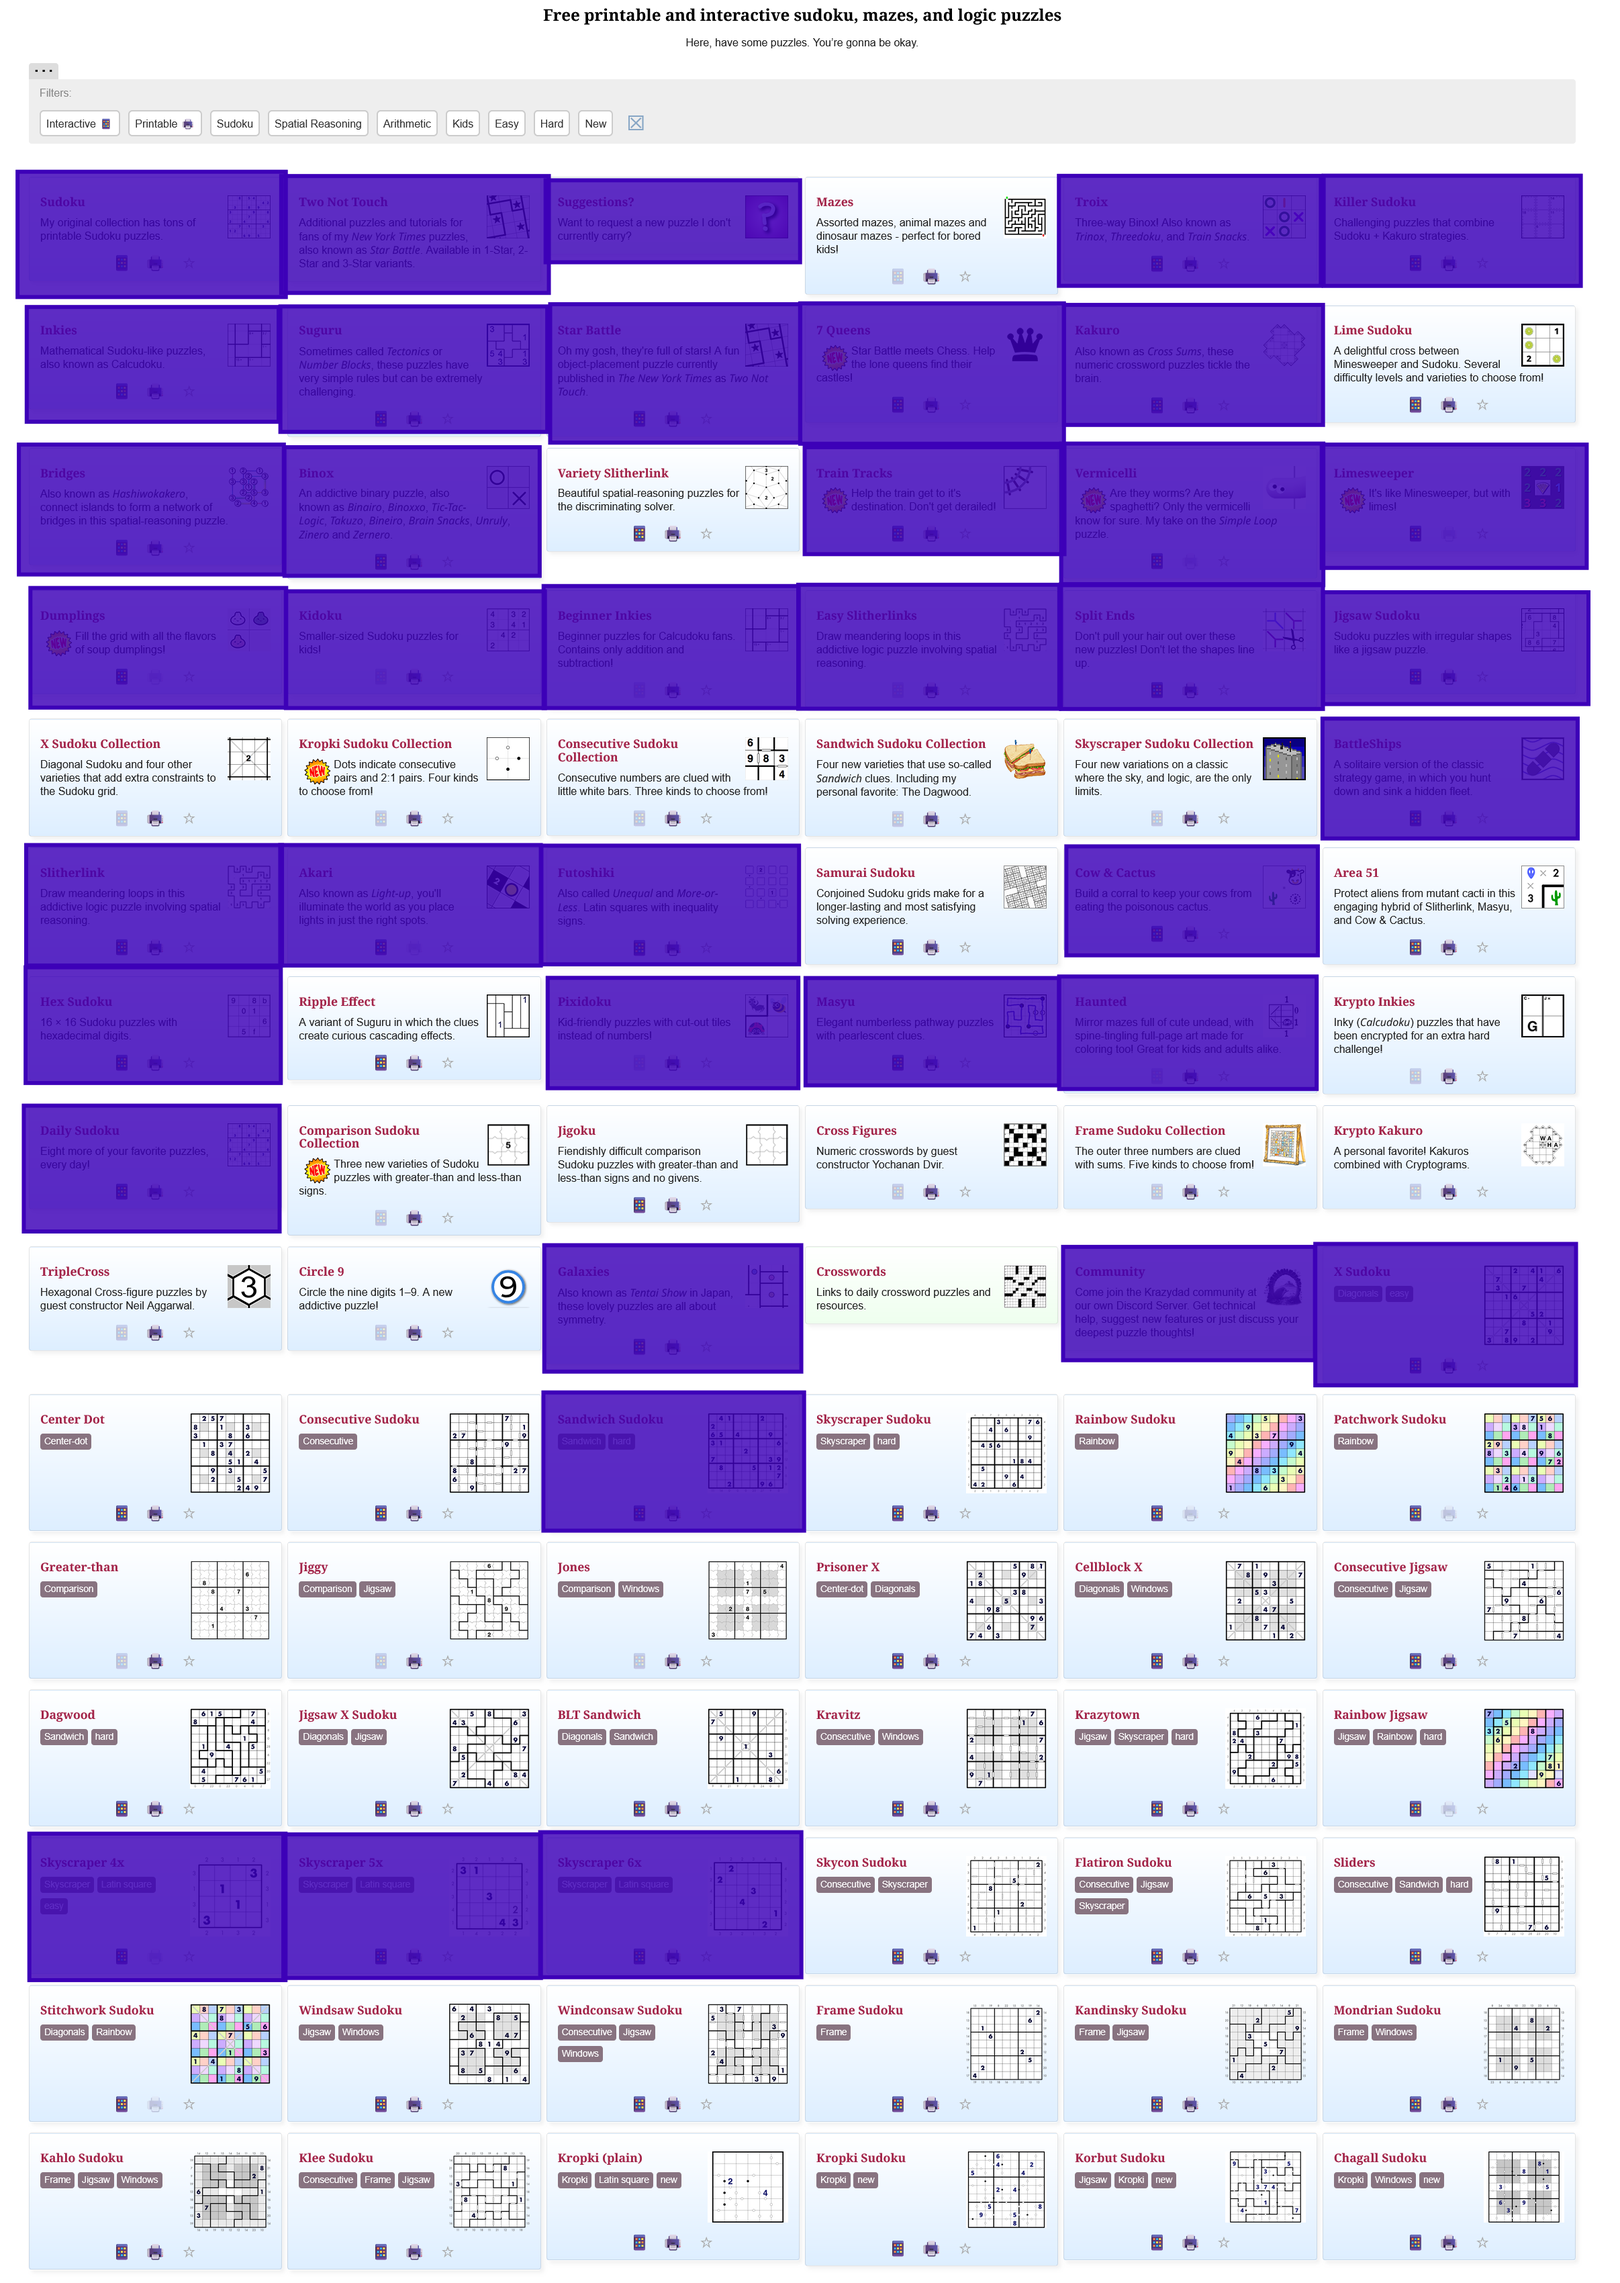
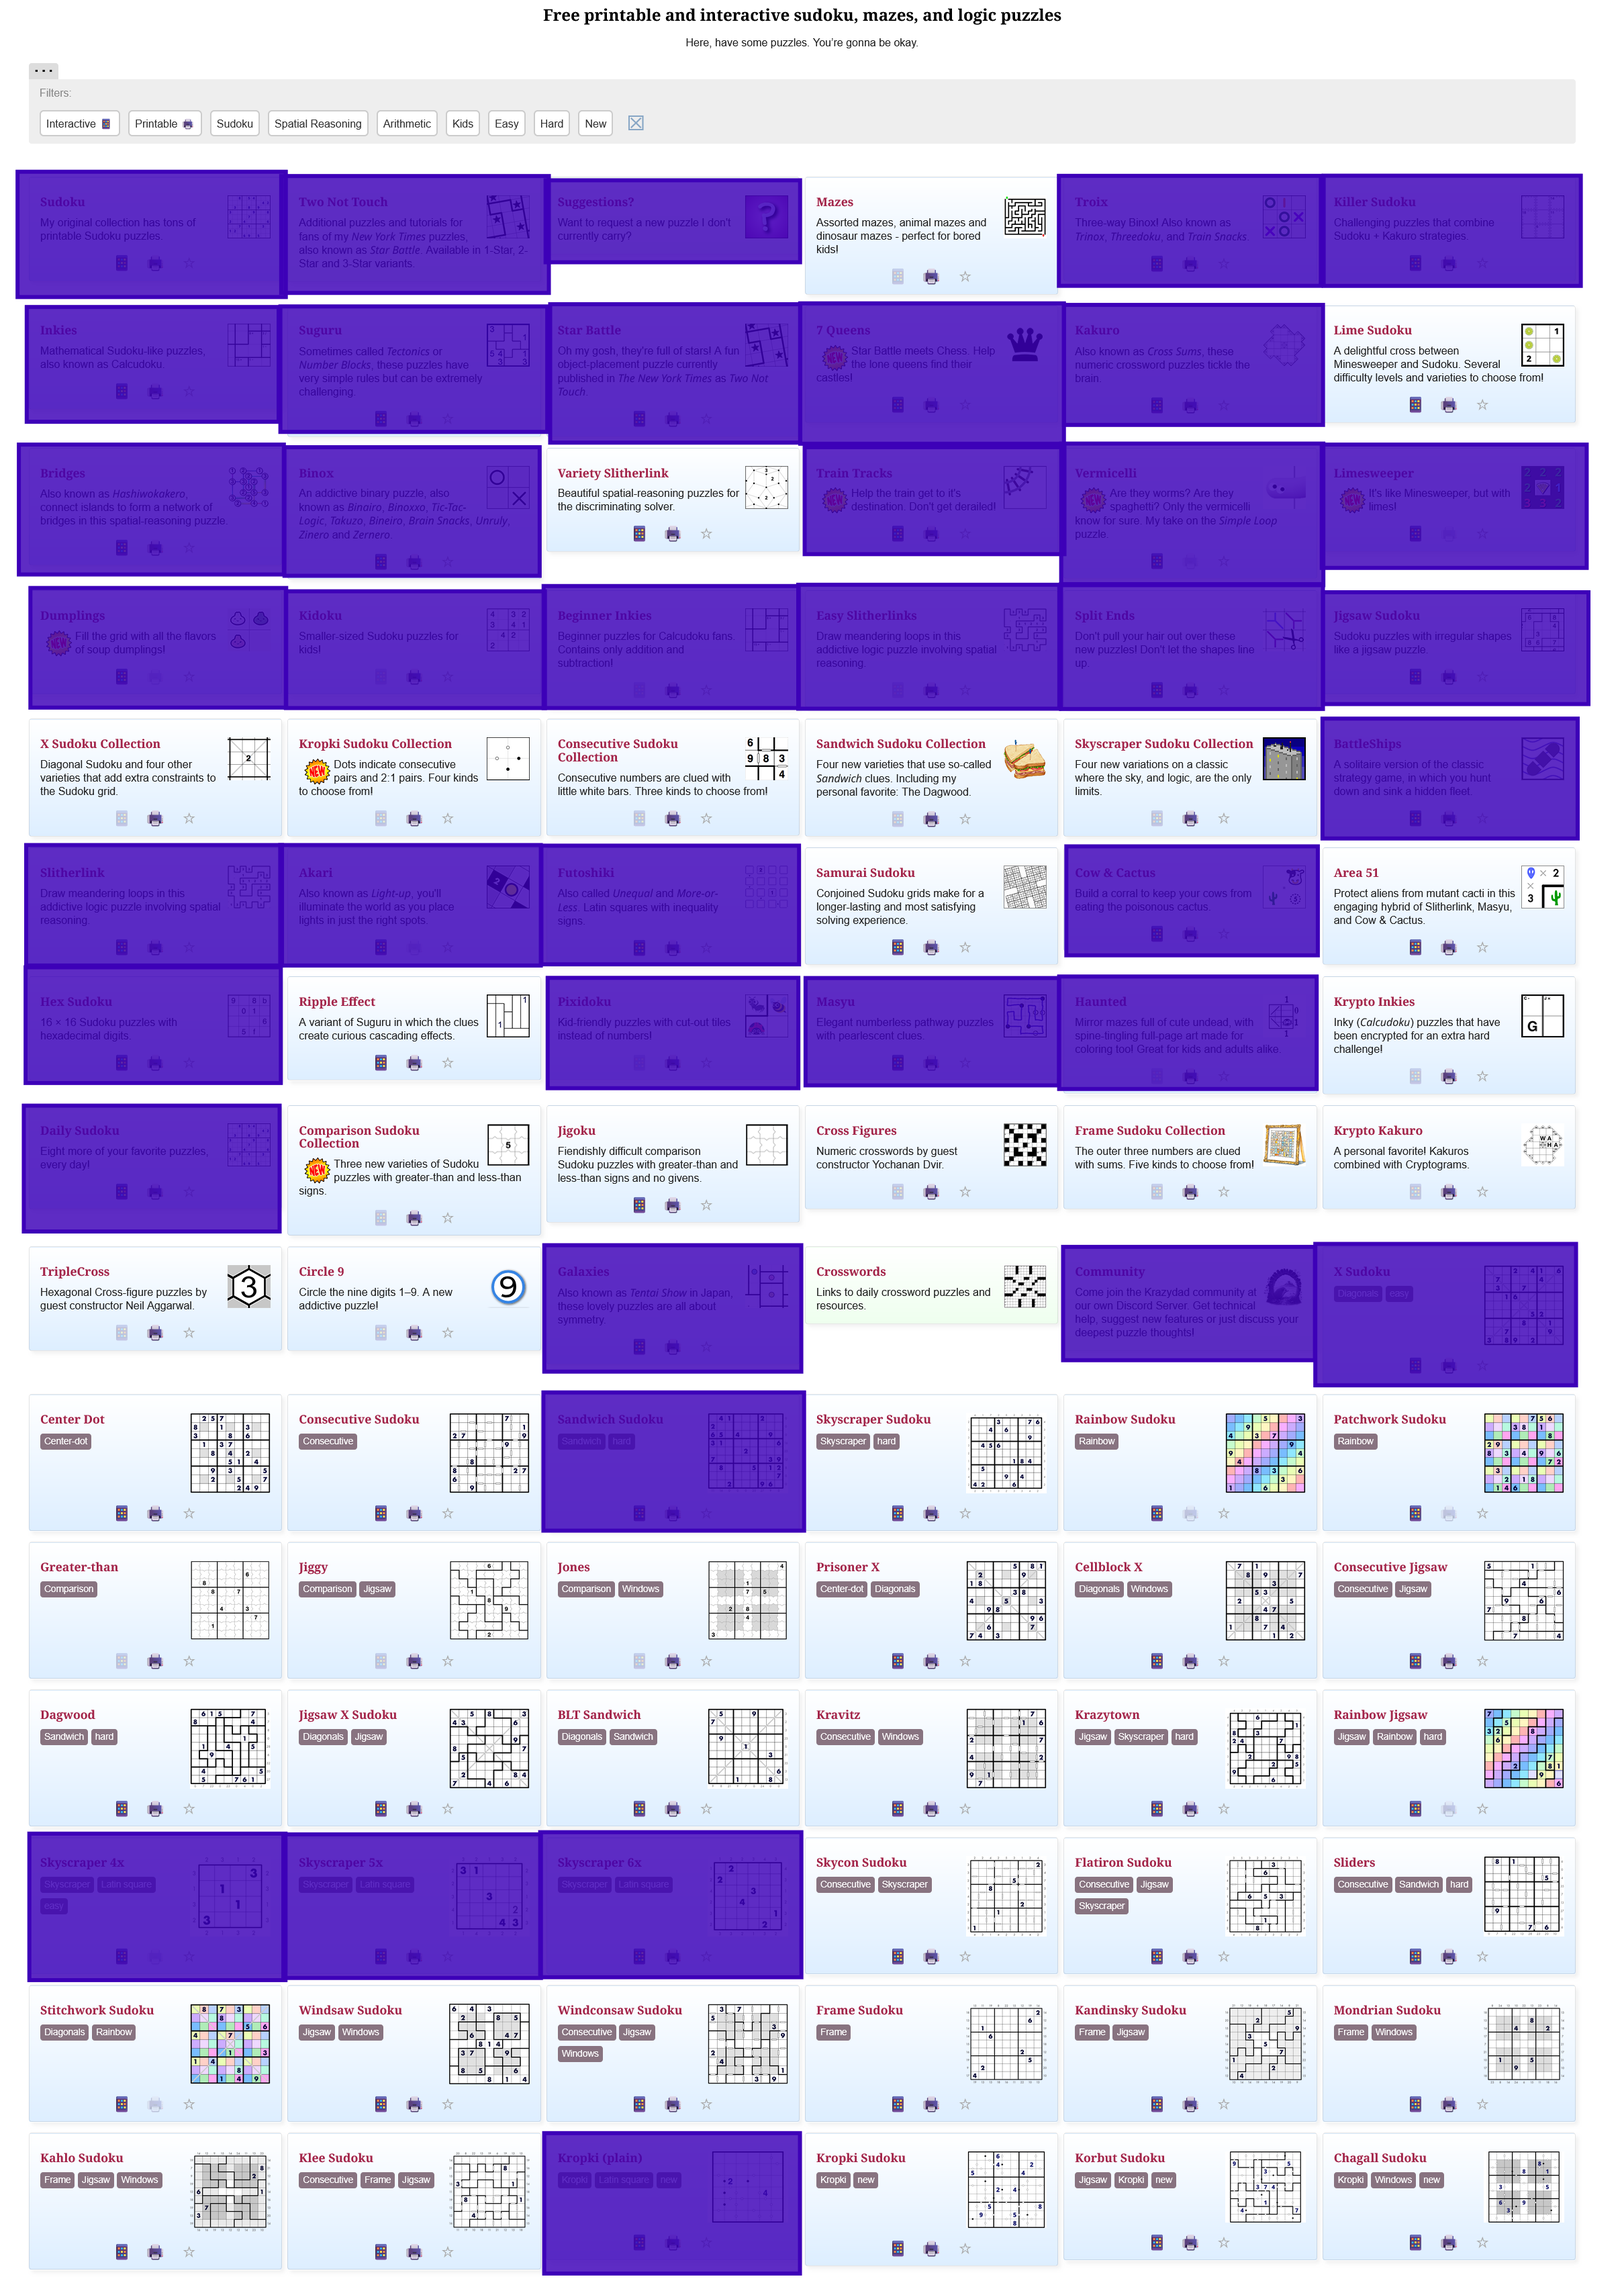
update puzzle list

Changed region(s): [[0.3108, 0.9353, 0.4973, 0.9976]]

diff --git a/images/README.md b/images/README.md
@@ -73,7 +73,7 @@ All pen and paper puzzles have been implemented.
 The website has exactly 86 puzzles in total:
 
 - 54 are Sudoku-like puzzles (?/54 implemented)
-- 22 Interactive non-Sudoku puzzles (19/22 implemented; 3 remaining)
+- 22 Interactive non-Sudoku puzzles (20/22 implemented; 2 remaining)
 - 10 Printable only non-Sudoku puzzles (4/10 implemented; 6 remaining)
 
 Sudoku variants are so abundant so they are currently not prioritized.
